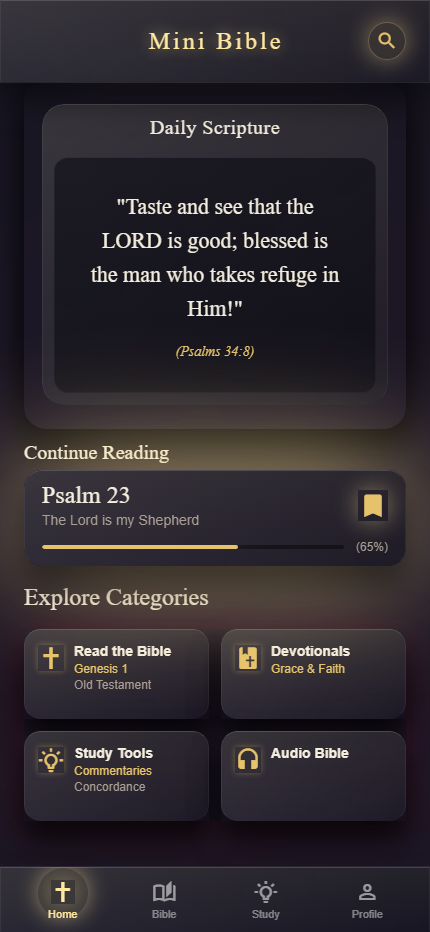
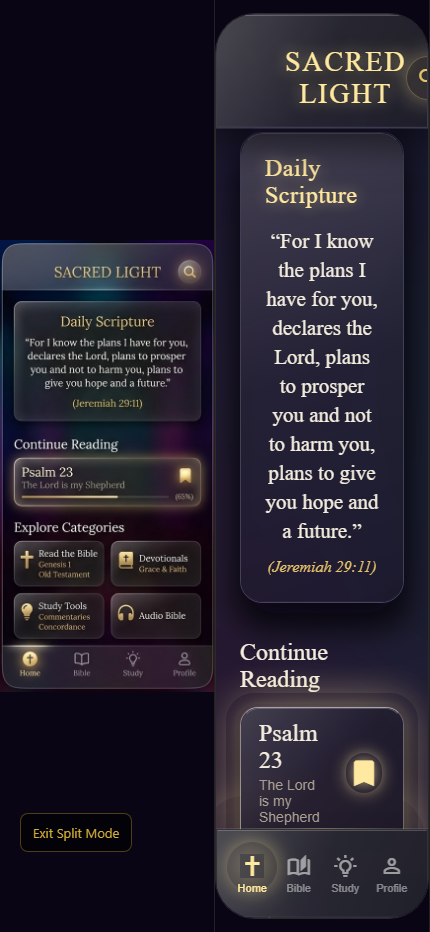
Pre-splash baseline: Codex visual/final-sanctuary-glass-pass + split-mode comparison view

diff --git a/App.tsx b/App.tsx
@@ -1,5 +1,5 @@
-import React from 'react';
-import { View, StyleSheet, Platform } from 'react-native';
+import React, { useState } from 'react';
+import { View, Image, Pressable, StyleSheet, Platform, Text } from 'react-native';
 import { StatusBar } from 'expo-status-bar';
 import { SafeAreaProvider } from 'react-native-safe-area-context';
 import SanctuaryBackground from './src/components/SanctuaryBackground';
@@ -7,6 +7,8 @@ import HomeScreen from './src/screens/HomeScreen';
 import { COLORS } from './src/theme';
 
 export default function App() {
+  const [splitMode, setSplitMode] = useState(true);
+
   React.useEffect(() => {
     if (Platform.OS !== 'web' || typeof document === 'undefined') {
       return;
@@ -49,12 +51,37 @@ export default function App() {
     <SafeAreaProvider>
       <View style={styles.container}>
         <StatusBar style="light" />
-        
-        {/* Layered stained-glass ambient lighting background */}
-        <SanctuaryBackground />
-        
-        {/* Main interactive screen (Home) */}
-        <HomeScreen />
+
+        {splitMode ? (
+          <View style={styles.splitWrapper}>
+            <View style={styles.pane}>
+              <Image
+                source={require('./assets/reference_mockup.png')}
+                style={styles.mockupImage}
+                resizeMode="contain"
+              />
+            </View>
+
+            <View style={[styles.pane, styles.activePane]}>
+              <View style={styles.activeFrame}>
+                <SanctuaryBackground />
+                <HomeScreen />
+              </View>
+            </View>
+
+            <Pressable style={styles.toggleButton} onPress={() => setSplitMode(false)}>
+              <Text style={styles.toggleText}>Exit Split Mode</Text>
+            </Pressable>
+          </View>
+        ) : (
+          <>
+            {/* Layered stained-glass ambient lighting background */}
+            <SanctuaryBackground />
+
+            {/* Main interactive screen (Home) */}
+            <HomeScreen />
+          </>
+        )}
       </View>
     </SafeAreaProvider>
   );
@@ -66,5 +93,54 @@ const styles = StyleSheet.create({
     height: '100%',
     overflow: 'hidden',
     backgroundColor: COLORS.bgDeep,
+  },
+  splitWrapper: {
+    flex: 1,
+    flexDirection: 'row',
+    backgroundColor: '#090514',
+  },
+  pane: {
+    flex: 1,
+    height: '100%',
+    position: 'relative',
+    overflow: 'hidden',
+    borderRightWidth: 1,
+    borderRightColor: '#222222',
+  },
+  activePane: {
+    alignItems: 'center',
+    justifyContent: 'center',
+    backgroundColor: '#090514',
+  },
+  activeFrame: {
+    width: '100%',
+    maxWidth: 430,
+    height: '98.5%',
+    maxHeight: 906,
+    position: 'relative',
+    overflow: 'hidden',
+    borderRadius: 40,
+    borderWidth: 1,
+    borderColor: 'rgba(255, 233, 160, 0.16)',
+    backgroundColor: COLORS.bgDeep,
+  },
+  mockupImage: {
+    width: '100%',
+    height: '100%',
+  },
+  toggleButton: {
+    position: 'absolute',
+    bottom: 80,
+    left: 20,
+    paddingHorizontal: 12,
+    paddingVertical: 10,
+    backgroundColor: 'rgba(0, 0, 0, 0.6)',
+    borderRadius: 8,
+    borderWidth: 1,
+    borderColor: 'rgba(212, 175, 55, 0.35)',
+  },
+  toggleText: {
+    color: '#D4AF37',
+    fontSize: 13,
   },
 });

diff --git a/UI_HANDOFF.md b/UI_HANDOFF.md
@@ -1,0 +1,68 @@
+# Mini Bible UI Handoff
+
+Date: 2026-06-17  
+Session state: "stop and handoff" requested
+
+## Objective
+Keep iterating toward pixel-fidelity match with the reference design at:
+`http://localhost:8082/`
+
+## Active Constraint (Do Not Touch)
+- HomeScreen layout
+- Daily Scripture spacing
+- Header slab
+- Continue Reading layout
+- Category cards
+- Bottom nav
+- Background visuals
+- Typography scale/weight treatment
+
+## What Was Already Tuned
+- `src/components/GlassCard.tsx` was iteratively softened to feel less like a solid dark rectangle and more like frosted glass:
+  - Base fill reduced to: `rgba(10, 8, 24, 0.105)`
+  - Default haze raised slightly: `rgba(255, 255, 255, 0.086)`
+  - Outer border/shadow and edge refraction reduced (less heavy):
+    - `outerContainer.shadowOpacity: 0.045`
+    - `borderColor: rgba(255,255,255,0.024)`
+    - `borderTopWidth: 1.1`
+    - `borderTopColor: rgba(255,255,255,0.20)`
+    - `borderLeftColor: rgba(255,244,210,0.048)`
+  - Keep gradients/soft washes subtle and non-banded.
+- `src/screens/HomeScreen.tsx` had minor Continue Reading glow/border refinements (even though not requested for this pass, these remain in working tree):
+  - Softer border and lower shadow values in `readingSoftFrame`, `readingOuterAura`, and `readingRimGlow`.
+
+## Current Workspace State
+Modified files:
+- `App.tsx`
+- `src/components/GlassCard.tsx`
+- `src/components/SanctuaryBackground.tsx`
+- `src/screens/HomeScreen.tsx`
+- `src/theme/index.ts`
+- `screenshot.png`
+- `UsersshawnDocumentsAWSAppsminibible-native.codex-latest-visual.png`
+- `assets/reference_mockup.png`
+
+## Validation Performed
+- `git status --short` confirms the above files are currently changed.
+- Expo web remains running on port `8082` in prior sessions.
+- TypeScript check (`npx tsc --noEmit`) has passed in earlier rounds after these edits.
+
+## What Still Needs Attention (Next Session)
+- Continue GlassCard-only pass:
+  - Preserve the same constraints above.
+  - Aim for:
+    - clearer frosted haze
+    - brighter top edge refraction
+    - softer internal milky glow
+    - subtle gold rim light at low alpha
+  - Avoid adding new visible oval/spotlight/circle layers.
+  - Avoid aggressive blur increases.
+
+## Recommended Next Steps
+1. Inspect current `GlassCard.tsx` and run a very small visual tweak pass.
+2. Reload `http://localhost:8082/` with cache clear.
+3. Keep iterating in micro steps and verify each tweak via local screenshot/visual comparison.
+
+## Notes for Resume
+- User explicitly requested “stop and create a handoff file” after current context exploration.
+- Do not revert unrelated user/app edits unless explicitly requested.

diff --git a/MINI_BIBLE_UI_HANDOFF_2026-06-17.md b/MINI_BIBLE_UI_HANDOFF_2026-06-17.md
@@ -1,0 +1,44 @@
+# Mini Bible UI Handoff
+
+Date: 2026-06-17
+Session intent: stop and handoff after GlassCard tuning pass
+
+## Scope held fixed (Do Not Touch)
+- HomeScreen layout
+- Daily Scripture spacing
+- Header slab
+- Continue Reading layout
+- Category cards
+- Bottom nav
+- Background visuals
+- Typography scale/weight treatment
+
+## What was changed in this pass
+- File: `src/components/GlassCard.tsx`
+- Tuned values only (no layout structure changes):
+  - `hazeColor` default increased to `rgba(255, 255, 255, 0.094)` for clearer frost haze.
+  - Gold border tint for `borderStyle='gold'` softened slightly to `rgba(255, 233, 160, 0.13)`.
+  - Diagonal refraction sheen first stop increased to `0.088`.
+  - Top wash strengthened slightly (`0.20 -> 0.028` range).
+  - Gold rim/edge light raised slightly (`0.052/0.010` range).
+  - Internal milky veil lowered (`0.02/0.015` -> `0.015/0.012`) for softer glow.
+  - Top edge refraction increased to `rgba(255, 255, 255, 0.23)`.
+  - Left edge refraction/gold rim set to `rgba(255, 244, 210, 0.055)`.
+
+## Current tuning target still open
+- Continue micro-adjusting in single steps toward:
+  - clearer frosted haze
+  - brighter top edge refraction
+  - softer internal milky glow
+  - subtle gold rim light at low alpha
+
+## Validation state
+- No validation was run in this handoff step (per request).
+- Previous session had passed `npx tsc --noEmit` before this small pass.
+
+## Next session checklist
+1. Inspect `http://localhost:8082/` with cache cleared.
+2. Compare against `assets/reference_mockup.png`.
+3. Make at most one tiny `GlassCard.tsx` adjustment per iteration, re-check screenshot.
+4. Avoid blur increases and avoid any new oval/spotlight/circle layers.
+
